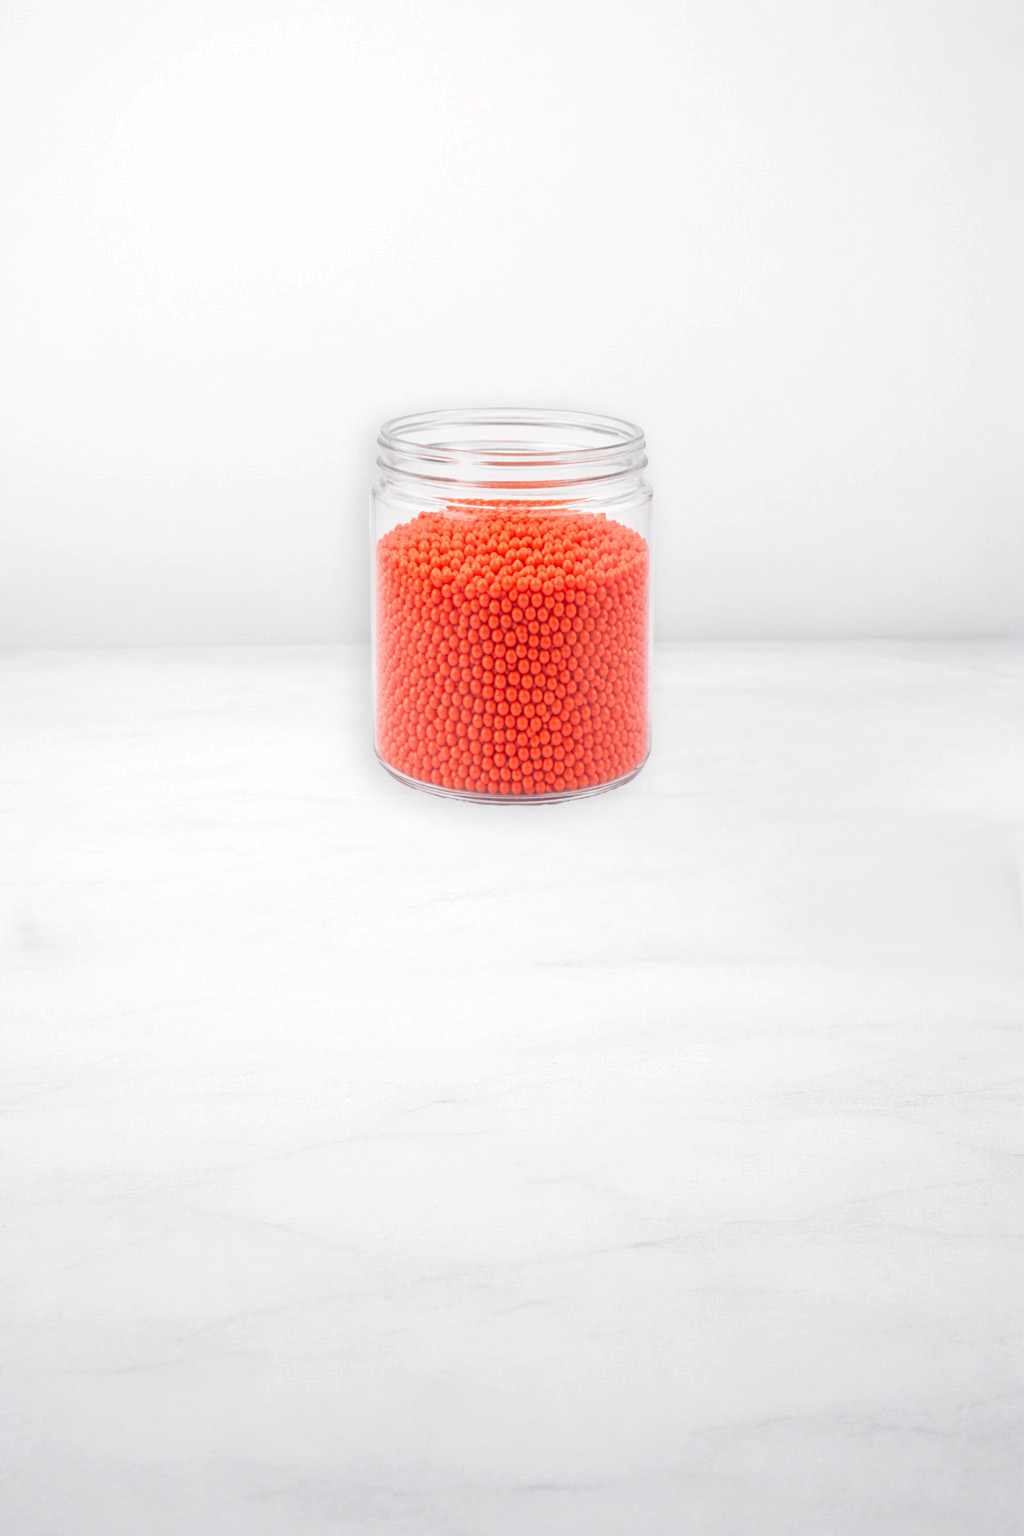
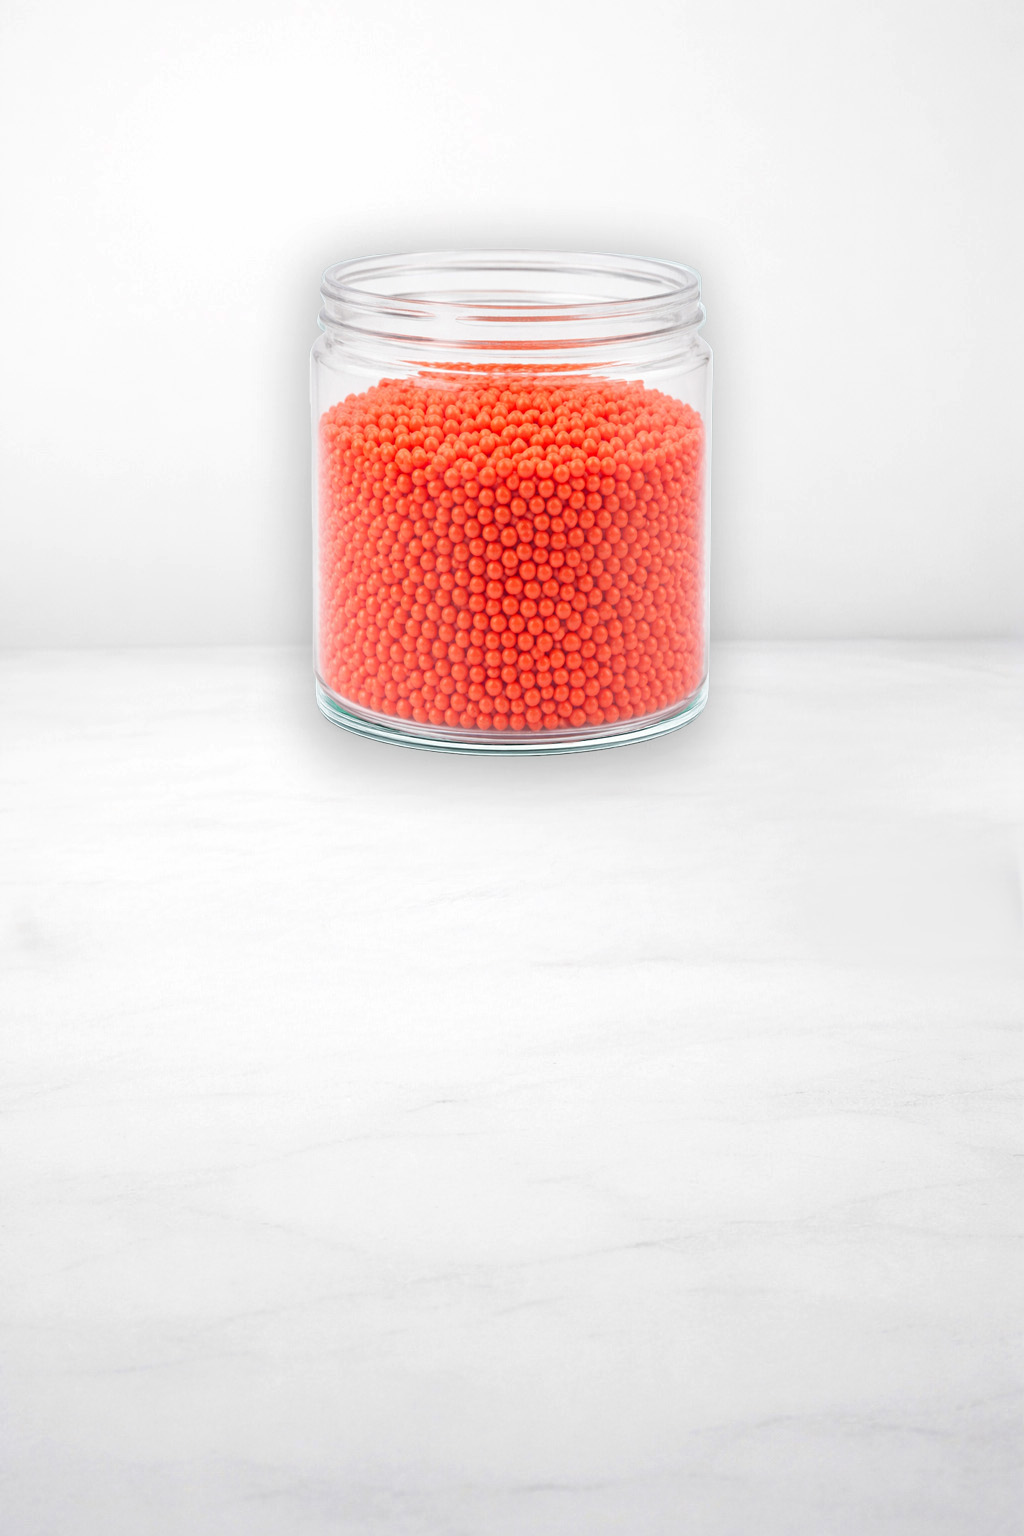
added new products

Changed region(s): [[0.2812, 0.1562, 0.7188, 0.5312]]

diff --git a/src/shared/productCatalog.js b/src/shared/productCatalog.js
@@ -1073,7 +1073,7 @@ export const DEFAULT_TOOL_PRODUCTS = [
     subcategory: null,
     description: 'Scale product.',
     price: 25,
-    image: '/products/electronic-scale-100g.jpg',
+    image: '/products/electronic-scale-600g.jpg',
     countInStock: 0
   },
   {